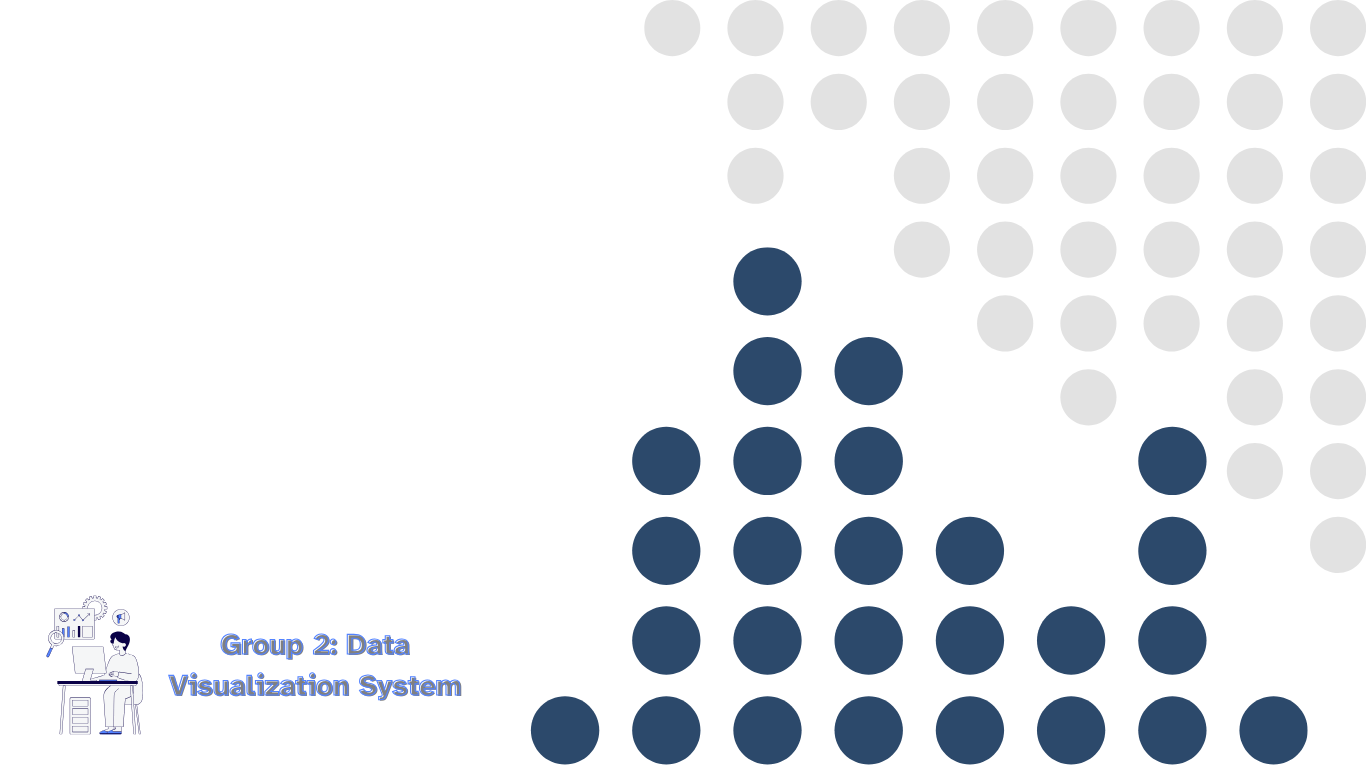
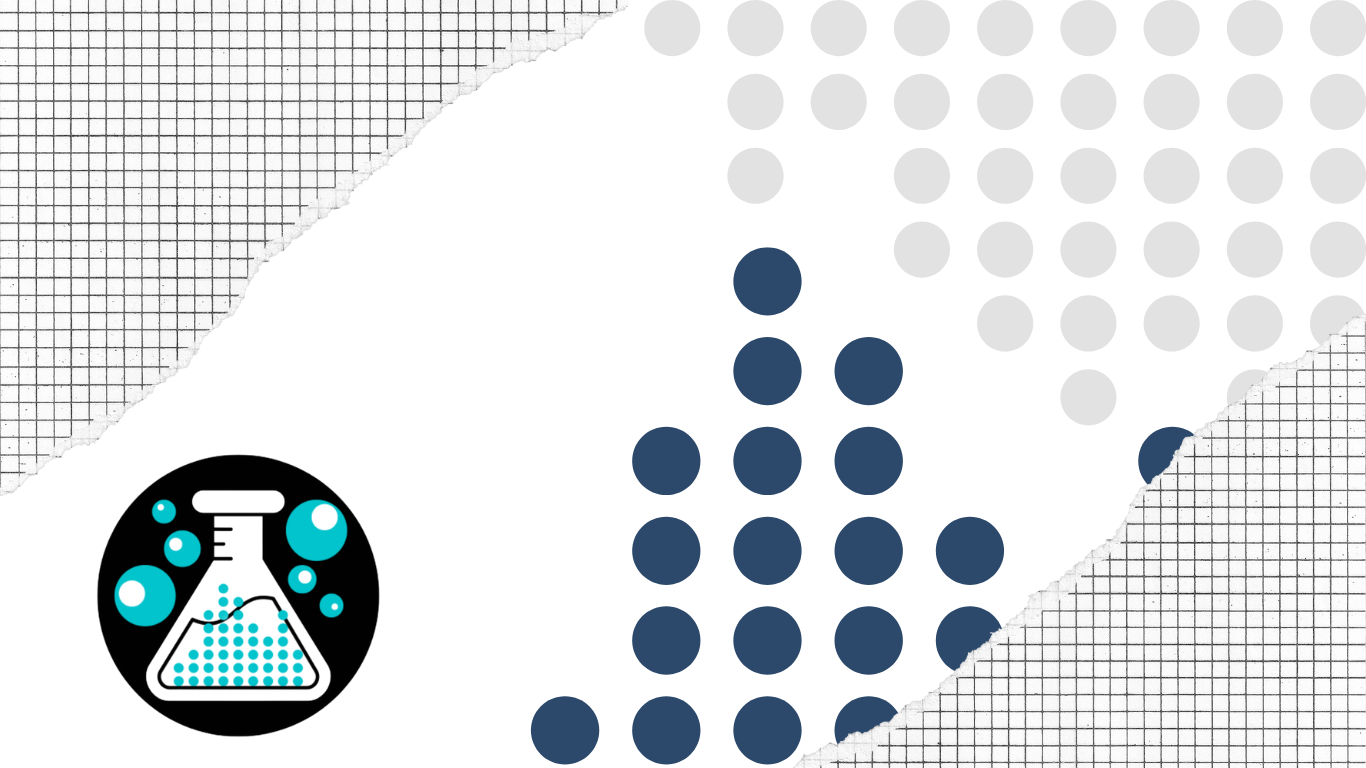
View Chart + UI Fixes
+Left and Right Column Individual Scroll Bars (Hidden)
+View Generated Chart in Full Screen (Button)
+Added PLM Logo
+Changed BG

Changed region(s): [[0.0, 0.0, 0.4612, 0.625], [0.5842, 0.4062, 1.0, 1.0], [0.0307, 0.5938, 0.3382, 0.9688]]

diff --git a/frontend/src/App.js b/frontend/src/App.js
@@ -4,8 +4,8 @@ import 'bootstrap/dist/css/bootstrap.min.css';
 import React, { useEffect, useState } from "react";
 import ChartDisplay from './components/ChartDisplay.js';
 import LOGO from './styles/images/LOGO.png';
+import PLM from './styles/images/PLM.png';
 import './styles/styles.css';
-
 
 function App() {
   const [csvFile, setCsvFile] = useState(null);
@@ -97,6 +97,7 @@ const handleGenerateChart = () => {
     console.log('Chart URL:', response.data.chart_url); // Log the URL to verify
     setChartUrl(`http://localhost:8000${response.data.chart_url}`);
     setMessage("Chart generated successfully!");
+    //after chart generated, a button will appear that allows them to print the generated chart (pdf)
 
     // Fetch data for selected x and y columns to pass into the charting library if needed
     axios.post('http://localhost:8000/api/fetch_axis_data/', {
@@ -117,6 +118,17 @@ const handleGenerateChart = () => {
   });
 };
 
+//Print Handling
+const handlePrintChart = () => {
+  const printWindow = window.open(chartUrl, '_blank');
+  if (printWindow) {
+    printWindow.focus();
+    printWindow.print(); // Trigger print dialog
+  } else {
+    alert('Unable to open chart for printing.');
+  }
+};
+
   return (
     <div className="container-fluid">
       {/* Main Content */}
@@ -126,6 +138,7 @@ const handleGenerateChart = () => {
           
         <div className="card mb-4">
           <h3 className="card-header2">
+            <img src= {PLM} alt="PLM.png" />
             DataAlchemy: Data Visualization Tool
             <img src= {LOGO} alt="LOGO.png" />
             </h3>
@@ -138,6 +151,9 @@ const handleGenerateChart = () => {
               <div className="graph-container">
                 {/* Use the ChartDisplay component */}
                 <ChartDisplay chartUrl={chartUrl} />
+                {chartUrl && (
+                <button className="btn btn-primary btn-block" onClick={handlePrintChart}>View Chart Full Screen</button>
+               )}
               </div>
             </div>
           </div>
@@ -176,7 +192,7 @@ const handleGenerateChart = () => {
         <h3 className="text-center mt-5">Generate Data Report</h3>
           <label>Select CSV Table</label>
           <select className="form-control mb-3" onChange={(e) => handleTableSelect(e.target.value)} value={selectedTable || ''}>
-            <option value="">Select a Table</option>
+            <option value="">--Select a Table--</option>
             {tables.map(table => <option key={table} value={table}>{table}</option>)}
           </select>
 
@@ -184,23 +200,23 @@ const handleGenerateChart = () => {
             <>
               <label>X-Axis</label>
               <select className="form-control mb-3" onChange={(e) => setXAxis(e.target.value)} value={xAxis}>
-                <option value="">Select X-Axis</option>
+                <option value="">--Select X-Axis--</option>
                 {columns.map(col => <option key={col} value={col}>{col}</option>)}
               </select>
 
               <label>Y-Axis</label>
               <select className="form-control mb-3" onChange={(e) => setYAxis(e.target.value)} value={yAxis}>
-                <option value="">Select Y-Axis</option>
+                <option value="">--Select Y-Axis--</option>
                 {columns.map(col => <option key={col} value={col}>{col}</option>)}
               </select>
 
               <label>Chart Type</label>
               <select className="form-control mb-3" onChange={(e) => setChartType(e.target.value)} value={chartType}>
-                <option value="">Select Chart Type</option>
+                <option value="">--Select Chart Type--</option>
                 <option value="bar">Bar Chart</option>
                 <option value="line">Line Chart</option>
                 <option value="scatter">Scatter Plot</option>
-                <option value="row">Row Chart</option>
+                <option value="box">Box Chart</option>
                 <option value="histogram">Histogram</option>
               </select>
 

diff --git a/frontend/src/styles/styles.css b/frontend/src/styles/styles.css
@@ -34,11 +34,15 @@ body {
     display: flex;
     justify-content: space-between;
     gap: 20px;
+    height: 100vh; /* Ensure the row takes up the full viewport height */
   }
   
   /* Left Column for Data Reporting and Interpretation */
   .col-lg-8 {
     flex: 2; /* Take up more space */
+    overflow-y: auto; /* Enable vertical scrolling */
+    height: 100vh; /* Ensure the left column takes up full height */
+    padding: 20px; /* Adjust padding as necessary */
   }
   
   .card {
@@ -79,13 +83,22 @@ body {
   }
   
   .graph-container {
-    height: 300px;
+    height: auto;
     background-color: #f8f9fa; /* Placeholder for the graph */
+    place-items: center;
+  }
+
+  .graph-container button {
+    margin-top: 1px; /* Adjust margin as needed */
+    margin-left: 420px;
+    margin-bottom: 10px;
   }
   
 /* Right Column for CSV Upload and Tables */
 .col-lg-4 {
     flex: 1; /* Take up less space */
+    position: sticky; /* Make the column stick to the top */
+    top: 0; /* Align it at the top of the viewport */
     height: 100%; /* Ensure the right column takes up the full height */
     overflow-y: auto; /* Enable vertical scrolling */
     max-height: 95vh; /* Limit the height of the right column (e.g., 90% of the viewport height) */
@@ -94,6 +107,17 @@ body {
     background-color: #1E5EFF; /* Light background for the right side */
     color: #f1f1f1;
   }
+
+  /* Hide scrollbars but allow scrolling */
+.col-lg-8, .col-lg-4 {
+  overflow-y: scroll; /* Ensure vertical scrolling is possible */
+}
+
+/* Hide scrollbar for both columns */
+.col-lg-8::-webkit-scrollbar, .col-lg-4::-webkit-scrollbar {
+  display: none; /* Hide the scrollbar */
+}
+
   
   .csv-upload-section {
     margin-top: 20px;
@@ -219,5 +243,6 @@ body {
     .graph-container {
       height: 250px;
     }
+    
   }
   

diff --git a/frontend/src/components/ChartDisplay.js b/frontend/src/components/ChartDisplay.js
@@ -12,7 +12,7 @@ const ChartDisplay = ({ chartUrl }) => {
                     style={{ border: 'none' }}
                 />
             ) : (
-                <p>No chart available</p>
+                <p>No chart generated yet.</p>
             )}
         </div>
     );

diff --git a/backend/DataVisualizationApp/views.py b/backend/DataVisualizationApp/views.py
@@ -2,8 +2,9 @@
 import plotly.express as px
 import plotly.io as pio
 import pandas as pd
-import matplotlib.pyplot as plt
-import seaborn as sns
+import time
+#import matplotlib.pyplot as plt
+#import seaborn as sns
 import io
 import re
 import os
@@ -133,12 +134,14 @@ def generate_chart(request):
         if not os.path.exists(charts_dir):
             os.makedirs(charts_dir)
 
-        chart_file_path = os.path.join(charts_dir, "chart.html")
+        # Save the chart to static/charts directory with a unique filename
+        unique_filename = f"chart_{int(time.time())}.html"
+        chart_file_path = os.path.join(charts_dir, unique_filename)
         pio.write_html(fig, chart_file_path)
 
         # Construct the URL for the saved chart
-        chart_path = "charts/chart.html"
-        chart_url = f"{settings.STATIC_URL}{chart_path}"  # Full static URL for the frontend
+        chart_path = f"charts/{unique_filename}"
+        chart_url = f"{settings.STATIC_URL}{chart_path}" #path that is passed to react
         
         print(f'DIR: {chart_url}')
 

diff --git a/backend/backend/settings.py b/backend/backend/settings.py
@@ -54,6 +54,14 @@ MIDDLEWARE = [
     'corsheaders.middleware.CorsMiddleware',
 ]
 
+CORS_ALLOW_HEADERS = [
+    'content-type',
+    'authorization',
+    'x-requested-with',
+]
+
+CORS_ALLOW_CREDENTIALS = True
+
 CORS_ALLOWED_ORIGINS = [
     "http://localhost:3000",
 ]
